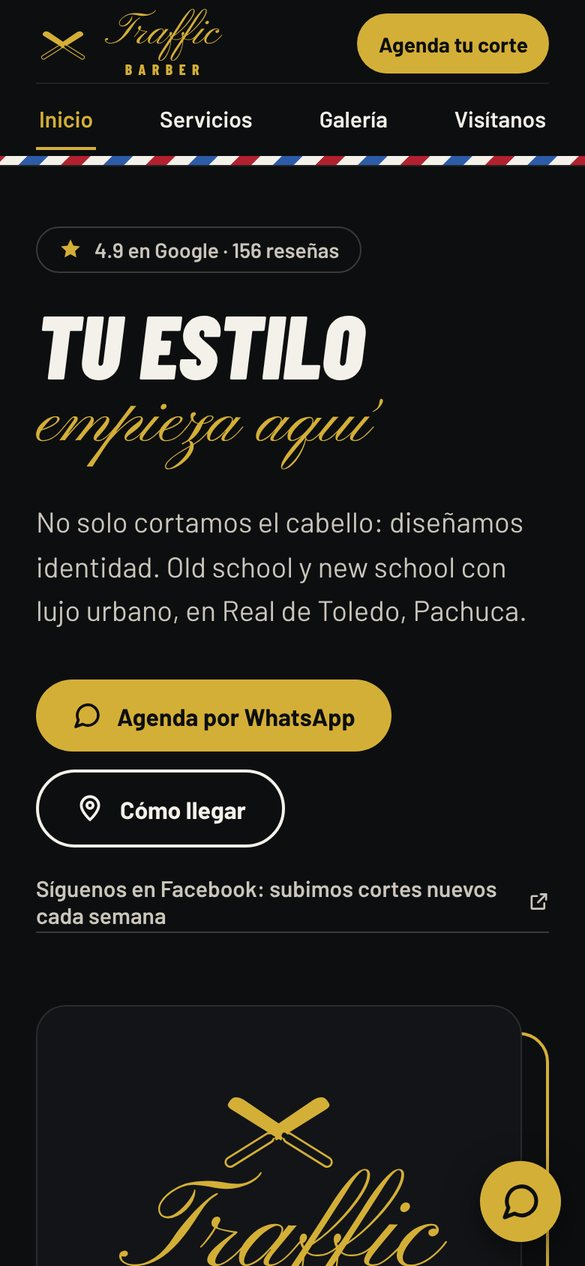
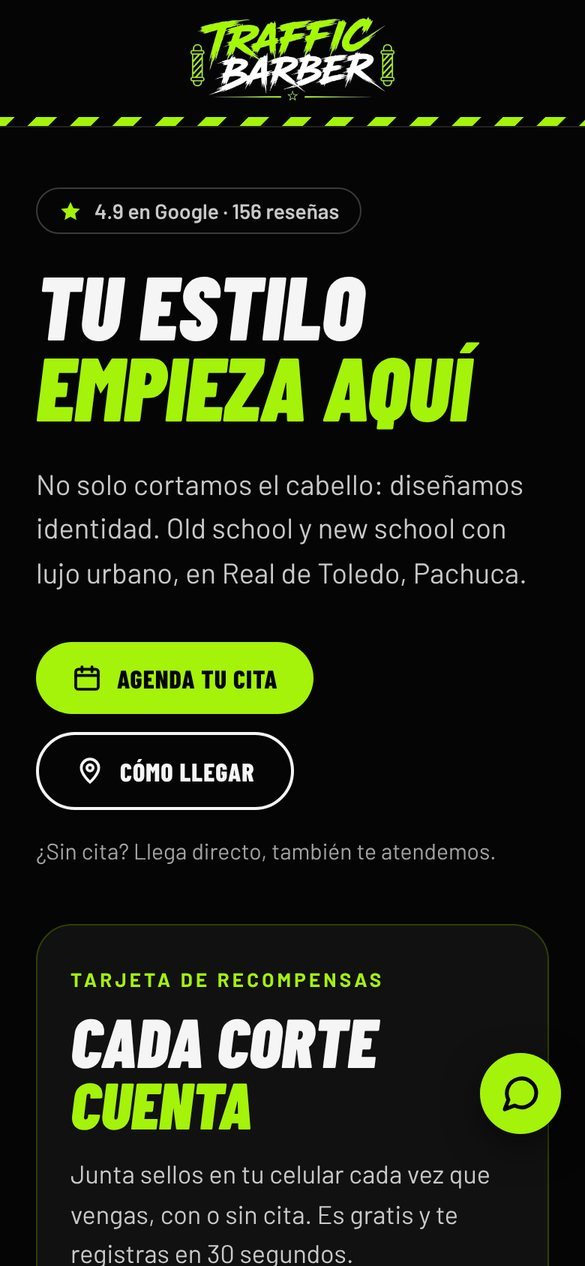
Pulido de diseño (guías de Apple) y Traffic Barber actualizado
- Botones verdes con texto oscuro: 6.9:1 (antes 3.1:1)
- Anillo de foco visible al navegar con teclado
- Menú y enlaces del pie con 44 px de alto para tocarlos fácil; texto del pie a 14 px
- Stickers quietos; el movimiento queda solo en la demo y la cinta
- Quita stickers de personas reales y personajes con derechos de autor
- Páginas web: capturas nuevas de Traffic Barber (verde neón, citas en línea,
  tarjeta de recompensas), texto y chips actualizados, tarjeta 'Extras'
- Corrige el espacio en 'Páginas web' del menú

Claude-Session: https://claude.ai/code/session_01FcikmFXRk2mTMGnkuwGzQ4

diff --git a/paginas-web.html b/paginas-web.html
@@ -101,6 +101,8 @@
     transition:transform .2s ease;
   }
   .project-shot:hover{transform:rotate(0) scale(1.02);}
+  .project-media{position:relative; padding:0 34px 44px 0;}
+  .project-phone{width:28%; right:0; bottom:0; transform:rotate(5deg);}
   .project-shot img{display:block; width:100%; height:auto; aspect-ratio:16/10; object-fit:cover; object-position:top;}
   .project .kicker{font-size:24px; color:var(--blue); display:inline-block; transform:rotate(-3deg);}
   .project h3{font-size:clamp(28px,3.6vw,38px); margin:6px 0 12px;}
@@ -204,7 +206,7 @@
     <nav class="site-nav">
       <a href="index.html">Inicio</a>
       <a href="catalogo.html">Catálogo</a>
-      <a href="paginas-web.html" class="active">Páginas<span class="hide-mobile"> web</span></a>
+      <a href="paginas-web.html" class="active">Páginas<span class="hide-mobile">&nbsp;web</span></a>
       <a class="nav-cta" href="https://wa.me/527711948929?text=Hola%2C%20quiero%20informaci%C3%B3n%20de%20las%20p%C3%A1ginas%20web%20de%20LilGhost%20Studio." target="_blank" rel="noopener">WhatsApp</a>
     </nav>
   </header>
@@ -225,7 +227,6 @@
     </div>
 
     <div class="mock">
-      <img class="stk bob hide-mobile" src="img/stickers/astro.webp" alt="" style="--w:120px; --r:-8deg; left:-50px; top:-60px;">
       <img class="doodle wiggle" src="img/estrella.svg" alt="" style="width:70px; left:-24px; bottom:10px; z-index:5;">
       <div class="browser">
         <div class="browser-bar"><i></i><i></i><i></i><span>lilghost99.github.io/Traffic-Barber</span></div>
@@ -271,6 +272,11 @@
         <h3>Tus reseñas de Google</h3>
         <p>Tu calificación a la vista y un botón para que te dejen más estrellas.</p>
       </div>
+      <div class="use sticker">
+        <div class="icon" style="background:var(--purple); color:#fff;"><svg viewBox="0 0 24 24" fill="none" stroke="currentColor" stroke-width="2.2" stroke-linecap="round" stroke-linejoin="round"><rect x="3" y="5" width="18" height="16" rx="2"/><path d="M3 10h18M8 3v4M16 3v4"/></svg></div>
+        <h3>Extras: citas y sellos</h3>
+        <p>Si tu negocio lo necesita: citas en línea, tarjeta de recompensas y un panel para ver todo.</p>
+      </div>
     </div>
   </section>
 
@@ -281,20 +287,23 @@
     </div>
     <div class="project sticker">
       <img class="stk bob-slow hide-mobile" src="img/stickers/glass.webp" alt="" style="--w:96px; --r:8deg; right:-26px; top:-46px;">
-      <a class="project-shot" href="https://lilghost99.github.io/Traffic-Barber/" target="_blank" rel="noopener">
-        <img src="img/proyectos/traffic-compu.jpg" alt="Captura de la página de Traffic Barber" loading="lazy" width="1600" height="1000">
-      </a>
+      <div class="project-media">
+        <a class="project-shot" href="https://lilghost99.github.io/Traffic-Barber/" target="_blank" rel="noopener">
+          <img src="img/proyectos/traffic-compu.jpg" alt="Inicio de la página de Traffic Barber en computadora" loading="lazy" width="1600" height="1000">
+        </a>
+        <div class="phone project-phone"><img src="img/proyectos/traffic-tarjeta.jpg" alt="Tarjeta de recompensas de Traffic Barber en el celular" width="585" height="1266"></div>
+      </div>
       <div>
         <span class="kicker hand">barbería · Real de Toledo, Pachuca</span>
         <h3 class="display">Traffic Barber</h3>
-        <p>Una página con estilo de barbería clásica para agendar por WhatsApp, ver servicios y fotos, llegar con Google Maps y sacar su tarjeta de cliente frecuente desde el celular.</p>
+        <p>Una página con estilo urbano donde los clientes apartan su cita en línea (servicio, día y hora), juntan sellos en su tarjeta de recompensas desde el celular y llegan con Google Maps. El dueño ve todas las citas y sellos desde su propio panel.</p>
         <ul class="chips">
-          <li>Agenda por WhatsApp</li>
-          <li>Servicios y promos</li>
-          <li>Galería</li>
+          <li>Citas en línea</li>
+          <li>Tarjeta de recompensas</li>
+          <li>Panel para el dueño</li>
+          <li>Promos de la semana</li>
           <li>Cómo llegar</li>
           <li>Reseñas de Google</li>
-          <li>Tarjeta de cliente frecuente</li>
         </ul>
         <a class="btn btn-yellow" href="https://lilghost99.github.io/Traffic-Barber/" target="_blank" rel="noopener">Ver la página →</a>
       </div>

diff --git a/index.html b/index.html
@@ -428,10 +428,8 @@
   .cta-box p{margin:0 auto 26px; font-size:17px; max-width:460px; color:var(--on-pastel-soft);}
   .cta-box .hero-actions{justify-content:center;}
 
-  .stk-ye{left:250px; top:-44px;}
   @media (max-width:860px){
     .demo{--s:1.05; height:420px;}
-    .stk-ye{left:215px; top:-30px;}
     .hero{grid-template-columns:1fr; gap:30px;}
     .collage{min-height:400px; max-width:460px; width:100%; margin:0 auto;}
     .steps{grid-template-columns:1fr;}
@@ -468,7 +466,7 @@
     <nav class="site-nav">
       <a href="index.html" class="active">Inicio</a>
       <a href="catalogo.html">Catálogo</a>
-      <a href="paginas-web.html">Páginas<span class="hide-mobile"> web</span></a>
+      <a href="paginas-web.html">Páginas<span class="hide-mobile">&nbsp;web</span></a>
       <a class="nav-cta" href="https://wa.me/527711948929?text=Hola%2C%20quiero%20informaci%C3%B3n%20de%20las%20tarjetas%20de%20LilGhost%20Studio." target="_blank" rel="noopener">WhatsApp</a>
     </nav>
   </header>
@@ -478,7 +476,6 @@
     <div>
       <span class="hero-tag hand">¡hola, negocio! 👋</span>
       <h1 class="display">Tu reputación, a <span class="marker">un toque</span> de distancia.</h1>
-      <img class="stk bob stk-ye" src="img/stickers/ye.webp" alt="" style="--w:68px; --wm:46px; --r:9deg;">
       <p class="lead">Tarjetas NFC y códigos QR que abren directo lo que tu negocio necesita: reseñas de 5 estrellas, WiFi, WhatsApp o Instagram. Sin apps, sin escribir nada — solo tocar o escanear.</p>
       <div class="hero-actions">
         <a class="btn btn-yellow" href="catalogo.html">Ver catálogo →</a>
@@ -488,7 +485,6 @@
     </div>
 
     <div class="collage">
-      <img class="stk bob-slow hide-mobile" src="img/stickers/pocoyo.webp" alt="" style="--w:64px; --r:-10deg; left:-22px; top:-44px; z-index:7;">
       <img class="doodle wiggle" src="img/estrella.svg" alt="" style="width:92px; left:-28px; bottom:40px; z-index:5;">
       <img class="doodle float" src="img/fantasma.svg" alt="" style="width:70px; right:-10px; bottom:30px; z-index:5;">
       <img class="doodle spin hide-mobile" src="img/chispa.svg" alt="" style="width:34px; right:44%; top:-24px; z-index:5;">
@@ -506,7 +502,6 @@
   </div>
 
   <section id="como-funciona" style="position:relative;">
-    <img class="stk bob-slow hide-mobile" src="img/stickers/astro.webp" alt="" style="--w:160px; --r:-4deg; right:10px; top:-40px;">
     <div class="section-head">
       <h2 class="display">Cómo funciona</h2>
       <span class="hand">facilísimo, en serio</span>
@@ -549,7 +544,6 @@
     </div>
     <div class="steps">
       <div class="step sticker">
-        <img class="stk bob-slow hide-mobile" src="img/stickers/rey.webp" alt="" style="--w:116px; --r:-8deg; left:-96px; bottom:-92px;">
         <div class="n">1</div>
         <h3>Pegas la tarjeta</h3>
         <p>La colocas en el mostrador, la caja o la mesa — donde el cliente la vea justo cuando está más contento con tu servicio.</p>
@@ -604,7 +598,6 @@
   </section>
 
   <section class="web-teaser sticker">
-    <img class="stk bob hide-mobile" src="img/stickers/astro.webp" alt="" style="--w:96px; --r:-8deg; left:-30px; top:-48px;">
     <div>
       <span class="hand kicker">¡nuevo! ✨</span>
       <h2 class="display">También hacemos <span class="marker">páginas web</span></h2>
@@ -622,7 +615,6 @@
     <img class="stk bob" src="img/stickers/carita.webp" alt="" style="--w:92px; --wm:60px; --r:-12deg; left:18px; top:-40px;">
     <img class="stk bob-slow" src="img/stickers/monstruo.webp" alt="" style="--w:110px; --wm:70px; --r:6deg; right:20px; bottom:-38px;">
     <img class="doodle wiggle hide-mobile" src="img/corazon.svg" alt="" style="width:44px; right:150px; top:-20px;">
-    <img class="stk hide-mobile" src="img/stickers/tony.webp" alt="" style="--w:150px; left:36px; bottom:3px; filter:none;">
     <h2 class="display">¿Lista tu tarjeta?</h2>
     <p>Elige el modelo en el catálogo y escríbenos. Nosotros la programamos con tu link.</p>
     <div class="hero-actions">

diff --git a/estilos.css b/estilos.css
@@ -89,6 +89,7 @@ a{color:inherit;}
 .brand img{height:42px; width:auto; display:block; filter:var(--logo-filter);}
 .site-nav{display:flex; align-items:center; gap:6px; flex-wrap:wrap;}
 .site-nav a{
+  display:inline-flex; align-items:center; min-height:44px;
   font-weight:700; font-size:15px; text-decoration:none;
   padding:9px 14px; border-radius:12px;
   border:2.5px solid transparent;
@@ -97,7 +98,7 @@ a{color:inherit;}
 .site-nav a:hover{border-color:var(--ink);}
 .site-nav a.active{background:var(--yellow-soft); color:var(--on-pastel); border-color:var(--ink);}
 .site-nav a.nav-cta{background:var(--ink); color:var(--on-ink); border-color:var(--ink);}
-.site-nav a.nav-cta:hover{background:var(--green); color:var(--on-pastel);}
+.site-nav a.nav-cta:hover{background:var(--green); color:#111;}
 
 /* ---------- Tipografía ---------- */
 .display{
@@ -138,8 +139,9 @@ a{color:inherit;}
 .btn:disabled{opacity:.5; cursor:default; transform:none; box-shadow:var(--shadow-sm);}
 .btn svg{width:20px; height:20px; flex:0 0 auto;}
 .btn-yellow{background:var(--yellow); color:var(--on-pastel);}
-.btn-green{background:var(--green); color:#fff;}
-.btn-green svg{color:#fff;}
+/* Texto oscuro sobre verde: 6.9:1 (blanco daba 3.1:1 y no se leía bien). */
+.btn-green{background:var(--green); color:#111;}
+.btn-green svg{color:#111;}
 .btn-dark{background:var(--ink); color:var(--on-ink);}
 .btn-block{width:100%;}
 
@@ -174,11 +176,15 @@ a{color:inherit;}
     drop-shadow(0 2.5px 0 #fff) drop-shadow(0 -2.5px 0 #fff)
     drop-shadow(3px 4px 0 rgba(0,0,0,0.22));
 }
-.stk.bob{animation:bob 5s ease-in-out infinite;}
-.stk.bob-slow{animation:bob 7s ease-in-out infinite reverse;}
-@keyframes bob{
-  0%,100%{transform:rotate(var(--r, 0deg)) translateY(0);}
-  50%{transform:rotate(calc(var(--r, 0deg) + 5deg)) translateY(-7px);}
+/* Los stickers se quedan quietos, como uno pegado de verdad: el movimiento se guarda
+   para lo que explica algo (la demo de 'Cómo funciona' y la cinta). */
+.stk.bob, .stk.bob-slow{animation:none;}
+
+/* ---------- Foco con teclado ---------- */
+a:focus-visible, button:focus-visible, summary:focus-visible, input:focus-visible, select:focus-visible, textarea:focus-visible{
+  outline:3px solid var(--blue);
+  outline-offset:3px;
+  border-radius:12px;
 }
 
 /* ---------- Pie de página ---------- */
@@ -193,10 +199,15 @@ a{color:inherit;}
   font-size:14px;
 }
 .site-footer img{height:34px; display:block; filter:var(--logo-filter);}
-.site-footer .links{display:flex; gap:16px; flex-wrap:wrap; font-weight:700;}
-.site-footer .links a{text-decoration:none; border-bottom:2.5px solid var(--yellow);}
-.site-footer .links a:hover{border-color:var(--ink);}
-.site-footer small{color:var(--ink-soft);}
+.site-footer .links{display:flex; column-gap:18px; flex-wrap:wrap; font-weight:700;}
+/* Cada enlace mide al menos 44 px de alto para tocarlo fácil con el dedo. */
+.site-footer .links a{
+  display:inline-flex; align-items:center; min-height:44px;
+  text-decoration:underline; text-decoration-color:var(--yellow);
+  text-decoration-thickness:2.5px; text-underline-offset:5px;
+}
+.site-footer .links a:hover{text-decoration-color:var(--ink);}
+.site-footer small{color:var(--ink-soft); font-size:14px;}
 
 /* ---------- Avisos ---------- */
 .status-banner{

diff --git a/catalogo.html b/catalogo.html
@@ -233,7 +233,7 @@
     <nav class="site-nav">
       <a href="index.html">Inicio</a>
       <a href="catalogo.html" class="active">Catálogo</a>
-      <a href="paginas-web.html">Páginas<span class="hide-mobile"> web</span></a>
+      <a href="paginas-web.html">Páginas<span class="hide-mobile">&nbsp;web</span></a>
       <a class="nav-cta" href="https://wa.me/527711948929?text=Hola%2C%20quiero%20informaci%C3%B3n%20de%20las%20tarjetas%20de%20LilGhost%20Studio." target="_blank" rel="noopener">WhatsApp</a>
     </nav>
   </header>
@@ -242,7 +242,6 @@
     <img class="stk bob" src="img/stickers/alien.webp" alt="" style="--w:130px; --wm:76px; --r:8deg; right:30px; top:-10px;">
     <img class="stk bob-slow hide-mobile" src="img/stickers/banda.webp" alt="" style="--w:104px; --r:-8deg; right:200px; top:46px;">
     <img class="doodle spin hide-mobile" src="img/chispa.svg" alt="" style="width:34px; right:290px; top:20px;">
-    <img class="stk bob hide-mobile" src="img/stickers/bebe.webp" alt="" style="--w:74px; --r:-6deg; right:110px; bottom:-78px;">
     <span class="hand">elige la tuya ✌</span>
     <h1 class="display">Catálogo</h1>
     <p class="lead">Tarjetas NFC y códigos QR listos para tu negocio. Elige la que necesitas y escríbenos para pedirla.</p>

diff --git a/producto.html b/producto.html
@@ -289,7 +289,7 @@
     <nav class="site-nav">
       <a href="index.html">Inicio</a>
       <a href="catalogo.html" class="active">Catálogo</a>
-      <a href="paginas-web.html">Páginas<span class="hide-mobile"> web</span></a>
+      <a href="paginas-web.html">Páginas<span class="hide-mobile">&nbsp;web</span></a>
       <a class="nav-cta" href="https://wa.me/527711948929?text=Hola%2C%20quiero%20informaci%C3%B3n%20de%20las%20tarjetas%20de%20LilGhost%20Studio." target="_blank" rel="noopener">WhatsApp</a>
     </nav>
   </header>
@@ -362,7 +362,6 @@
     document.getElementById('product').innerHTML = `
       <div class="pp">
         <div class="pp-media">
-          <img class="stk bob-slow hide-mobile" src="img/stickers/piloto.webp" alt="" style="--w:62px; --r:6deg; right:26px; bottom:-112px;">
           <div class="main sticker ${p.available ? '' : 'soldout'}" style="--tint:${TINTS[0]}">
             ${p.available ? '' : '<div class="badge">Agotado</div>'}
             <div class="slides">

diff --git a/preguntas.html b/preguntas.html
@@ -72,7 +72,7 @@
     <nav class="site-nav">
       <a href="index.html">Inicio</a>
       <a href="catalogo.html">Catálogo</a>
-      <a href="paginas-web.html">Páginas<span class="hide-mobile"> web</span></a>
+      <a href="paginas-web.html">Páginas<span class="hide-mobile">&nbsp;web</span></a>
       <a class="nav-cta" href="https://wa.me/527711948929?text=Hola%2C%20quiero%20informaci%C3%B3n%20de%20las%20tarjetas%20de%20LilGhost%20Studio." target="_blank" rel="noopener">WhatsApp</a>
     </nav>
   </header>
